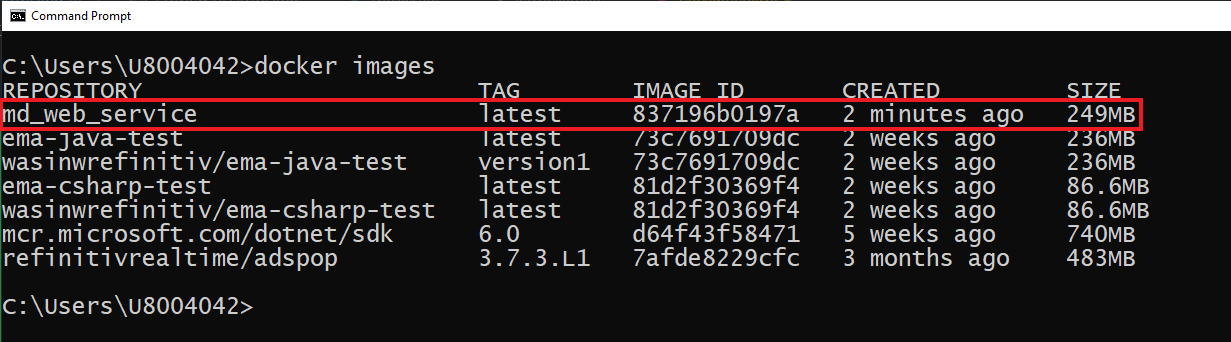
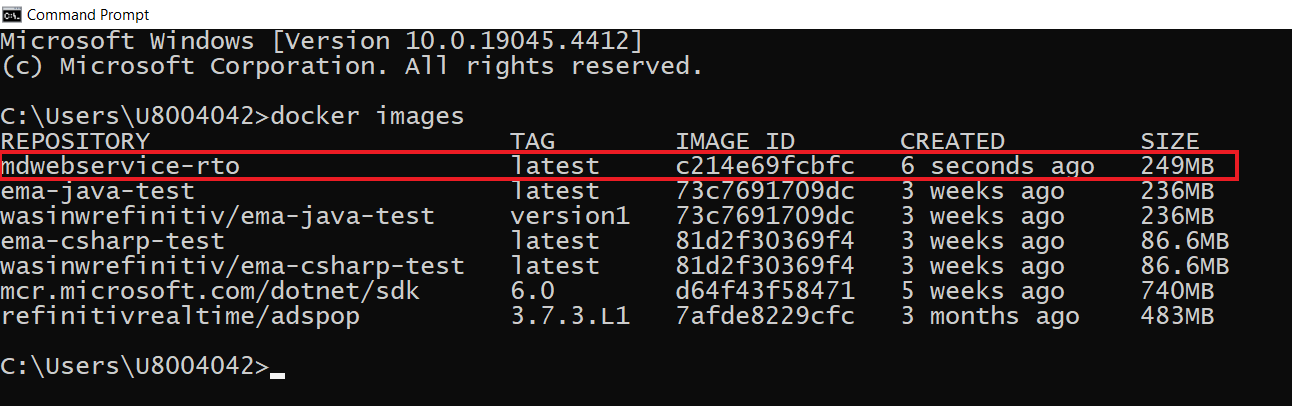
Add how to push docker image to Docker Hub.

Changed region(s): [[0.0, 0.0, 1.0, 0.8187], [0.0, 0.848, 0.2161, 0.9357]]

diff --git a/README.md b/README.md
@@ -33,7 +33,7 @@ This project requires the following dependencies software and libraries.
 1. Oracle 1.11 & 1.17 or OpenJDK 11.
 2. [Apache Maven](https://maven.apache.org/) project management and comprehension tool.
 3. Internet connection.  
-4. Access to the Real-Time Optimized (**ELEKTRON_DD** service only) with Authentication Version 2 (aka Customer Identity and Access Management - CIAM, or *Service Account*). The Service Account is Client ID and Client Secret.
+4. Access to the Real-Time Optimized (**Not Wealth products**) with Authentication Version 2 (aka Customer Identity and Access Management - CIAM, or *Service Account*). The Service Account is Client ID and Client Secret.
 5. [Docker Desktop](https://www.docker.com/products/docker-desktop/) application.
 6. [Docker Hub](https://hub.docker.com/) repository account.
 7. [Microsoft Azure](https://azure.microsoft.com/en-us/) account.
@@ -114,7 +114,7 @@ Or you can run the HTTP request on the Postman.
 Firstly, build the container image by issuing the command (Dockerfile should be available in this *MDWebService*):
 
 ```bash
-docker build -t md_web_service .
+docker build -t mdwebservice-rto .
 ```
 
 This will compile the image for our container. The newly created image can be seen with the *docker images* command:
@@ -125,10 +125,10 @@ This will compile the image for our container. The newly created image can be se
 
 ![figure-4](pics/docker_images.png "docker build result")
 
-The created image can be run using the command:
+Then created image can be run using the command:
 
 ```bash
-docker run -it --rm -p 8080:8080 --env-file .env md_web_service
+docker run -it --rm -p 8080:8080 --env-file .env mdwebservice-rto
 ```
 
 Here, we have run the container to connect to RTO. The container also binds the port 8080 used by Tomcat on to our local machine. The application can be tested by navigating to the 8080 port as done previously.
@@ -153,6 +153,75 @@ MarketData.ConnectionMode=RTDS
 
 Next, follow the steps on the [original project](https://github.com/LSEG-API-Samples/Article.RTSDK.Java.MDWebService).
 
-## How to deploy to Azure
+## How to deploy to Azure Cloud Service
+
+Normally, there are various ways to deployed an application on the cloud service like create a Virtual Machine (VM) on the cloud, or use the Serverless or Platform as a Service (PaaS) to run application's source code on the cloud, or use the fully managed container orchestration service to run an application's container. It is based on your preference of manageability, business logic and cost to choose which way is suitable for you.
+
+The VM way is supported by all major Cloud services like the [Azure Virtual Machine](https://azure.microsoft.com/en-us/products/virtual-machines), [AWS EC2](https://aws.amazon.com/ec2/), and [Google Cloud Compute Engine](https://cloud.google.com/products/compute/). However, it requires a lot of manual work such as manage and set up the machine, install all application's dependencies, and run an application by yourself manually. This is the reason our article does not choose the VM way.
+
+Since our MDWebService application already have been containerize, this article chooses the fully managed container orchestration service way.
+
+Azure provides various services for supporting different requirements,cost, and your application's preference. You can find more detail about the comparisons of all services that supports containerized applications on Azure on [Comparing Container Apps with other Azure container options](https://learn.microsoft.com/en-us/azure/container-apps/compare-options) and [Difference between Azure Container Instances and Azure Container Apps - serverfault](https://serverfault.com/questions/1083358/difference-between-azure-container-instances-and-azure-container-apps) websites. I am choosing the [Azure Container Instances service](https://azure.microsoft.com/en-us/products/container-instances) because the MDWebService application just need only a single isolate container to run and no need to scale it up yet. <--- May be change in the future.
+
+### Container Registry
+
+Azure also has the [Container Registry Service](https://azure.microsoft.com/en-us/products/container-registry) repository for storing and managing container images and artifacts with a fully managed environment. This repository requires the [Azure CLI](https://learn.microsoft.com/en-us/cli/azure/) tool to push/pull an application image to Azure container registry. However, our beloved ZScaler somehow blocks this Azure CLI tool to login to Azure, so I need to find other ways.
+
+Fortunately, the service supports [Docker Hub registry](https://hub.docker.com/) repository, so you can push the MDWebService-RTO image to Docker Hub repository, and set Azure to pull image from Docker Hub and run containers on Azure.
+
+### Push Image to Docker Hub
+
+The steps to push an MDWebService application image to Docker Hub repository are as follows.
+
+Firstly, log in to [Docker Hub registry](https://hub.docker.com/) website, and select the **Create repository** button.
+
+![figure-6](pics/docker_hub_1.png)
+
+Next, input **Repository Name** as *mdwebservice-rto*, input a short description of your image, and choose **Public Visibility**. And then click the **Create** button.
+
+![figure-7](pics/docker_hub_2.png)
+
+Once the repository is created successfully, the page redirects you to your repository page which contains commands to [push](https://docs.docker.com/reference/cli/docker/image/push/) your local image to this repository.
+
+![figure-8](pics/docker_hub_3.png)
+
+Moving on to the next step to push image, open a command prompt and run the following command to log in to Docker Hub via the CLI.
+
+```bash
+docker login -u YOUR-USER-NAME
+```
+
+![figure-9](pics/docker_push_1.png)
+
+Then input your Docker Hub account credential (*password* or *token*), then press the Enter button
+
+![figure-10](pics/docker_push_2.png)
+
+Once you have logged in to Docker Hub on the CLI, use the [docker tag]((https://docs.docker.com/reference/cli/docker/image/tag/)) command to give the *mdwebservice-rto* image a new name.
+
+```bash
+docker tag mdwebservice-rto wasinwrefinitiv/mdwebservice-rto
+```
+
+![figure-11](pics/docker_push_3.png)
+
+Once the image has been tagged, run the docker push command. Please note that if you don't specify a tagname part, Docker uses a tag called latest.
+
+```bash
+docker push wasinwrefinitiv/mdwebservice-rto
+```
+
+![figure-12](pics/docker_push_4.png)
+
+Then go back to Docker Hub website, the repository page shows your image detail. You can add the repository's category and overview based on your preference.
+
+![figure-13](pics/docker_push_5.png)
+
+You can find more detail about how to push an application image to Docker Hub on [Share the application](https://docs.docker.com/get-started/04_sharing_app/) document.
+
+## Reference
+
+- [Comparing Container Apps with other Azure container options](https://learn.microsoft.com/en-us/azure/container-apps/compare-options) article.
+- [Difference between Azure Container Instances and Azure Container Apps - serverfault](https://serverfault.com/questions/1083358/difference-between-azure-container-instances-and-azure-container-apps) post.
 
 [tbd]
